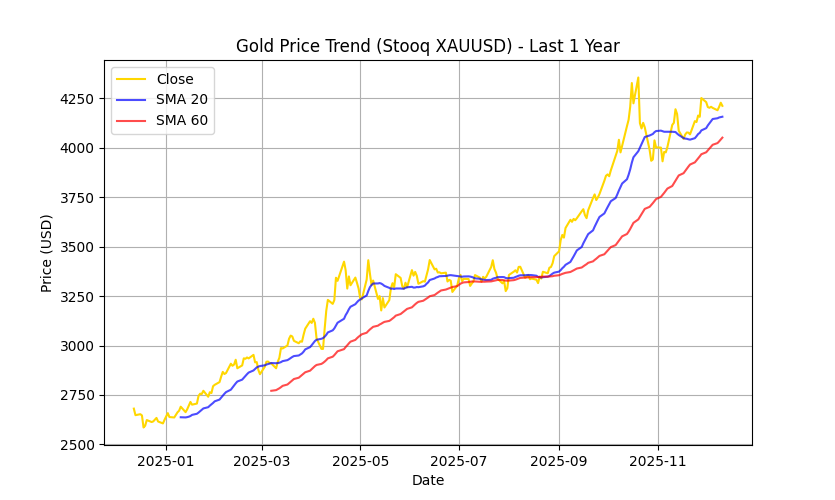
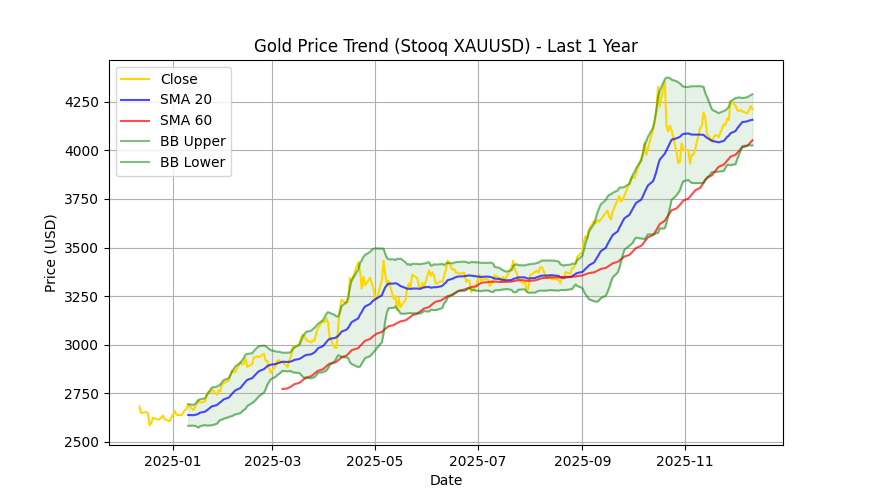
fix

diff --git a/python/numpy/fast-tutorial/sample16.py b/python/numpy/fast-tutorial/sample16.py
@@ -23,19 +23,13 @@ one_year_ago = datetime.now() - timedelta(days=365)
 # 条件式 df["Date"] >= one_year_ago を満たす行だけを残している
 df_recent = df[df["Date"] >= one_year_ago]
 
-# ============================
 # 1. 基本統計量の表示
-# ============================
-
-# 「Close（終値）」列について、平均・標準偏差・最小値・最大値などの基本統計量を計算して表示する
+# 「Close（終値）」列について、平均・標準偏差・最小値・最大値などの基本統計量を計算
 # これにより、「この1年でどのくらいの価格帯で動いていたのか」がざっくり把握できる
 print("▼ 直近1年の基本統計量")
 print(df_recent["Close"].describe())
 
-# ============================
 # 2. 年初来リターン（最初の終値 → 最新の終値）
-# ============================
-
 # 直近1年のうち、最初の日の終値（スタートの価格）を取り出す
 start_price = df_recent["Close"].iloc[0]
 
@@ -49,21 +43,22 @@ return_rate = (end_price - start_price) / start_price * 100
 print("\n▼ 年初来リターン")
 print(f"{return_rate:.2f}%")  # 小数点以下2桁まで表示
 
-# ============================
 # 3. 移動平均線（SMA）を追加
-# ============================
-
-# 「20日移動平均」を計算する
-# 直近20日間の終値の平均を、1日ずつずらしながら計算していく
+# 「20日移動平均」を直近20日間の終値の平均を1日ずつずらしながら計算
 df_recent["SMA_20"] = df_recent["Close"].rolling(window=20).mean()  # 20日移動平均
 
 # 「60日移動平均」を計算する（より長い期間のトレンドを見る指標）
 df_recent["SMA_60"] = df_recent["Close"].rolling(window=60).mean()  # 60日移動平均
 
-# ============================
-# グラフ描画
-# ============================
+# 4. ボリンジャーバンド（Bollinger Bands）を追加
+# 20日の標準偏差
+df_recent["STD_20"] = df_recent["Close"].rolling(window=20).std()
 
+# ボリンジャーバンド（±2σ）
+df_recent["BB_upper"] = df_recent["SMA_20"] + 2 * df_recent["STD_20"]
+df_recent["BB_lower"] = df_recent["SMA_20"] - 2 * df_recent["STD_20"]
+                                                            
+# 5. グラフ描画
 # グラフ全体のサイズを指定（横12インチ × 縦5インチ）
 plt.figure(figsize=(12, 5))
 
@@ -75,6 +70,14 @@ plt.plot(df_recent["Date"], df_recent["SMA_20"], label="SMA 20", color="blue", a
 
 # 60日移動平均線を赤色で描画
 plt.plot(df_recent["Date"], df_recent["SMA_60"], label="SMA 60", color="red", alpha=0.7)
+
+# ボリンジャーバンド（上限・下限）
+plt.plot(df_recent["Date"], df_recent["BB_upper"], label="BB Upper", color="green", alpha=0.5)
+plt.plot(df_recent["Date"], df_recent["BB_lower"], label="BB Lower", color="green", alpha=0.5)
+
+# バンドの塗りつぶし（視覚的にわかりやすくなる）
+plt.fill_between(df_recent["Date"], df_recent["BB_upper"], df_recent["BB_lower"],
+                 color="green", alpha=0.1)
 
 plt.title("Gold Price Trend (Stooq XAUUSD) - Last 1 Year") # グラフのタイトル
 plt.xlabel("Date") # 横軸（x軸）のラベル
